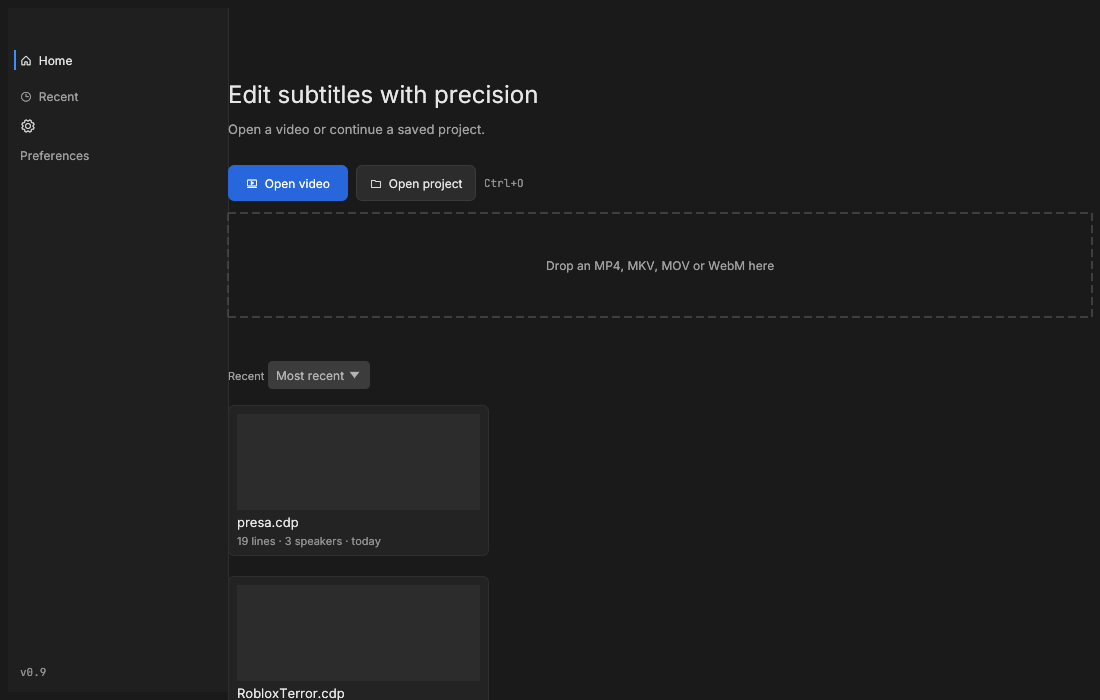
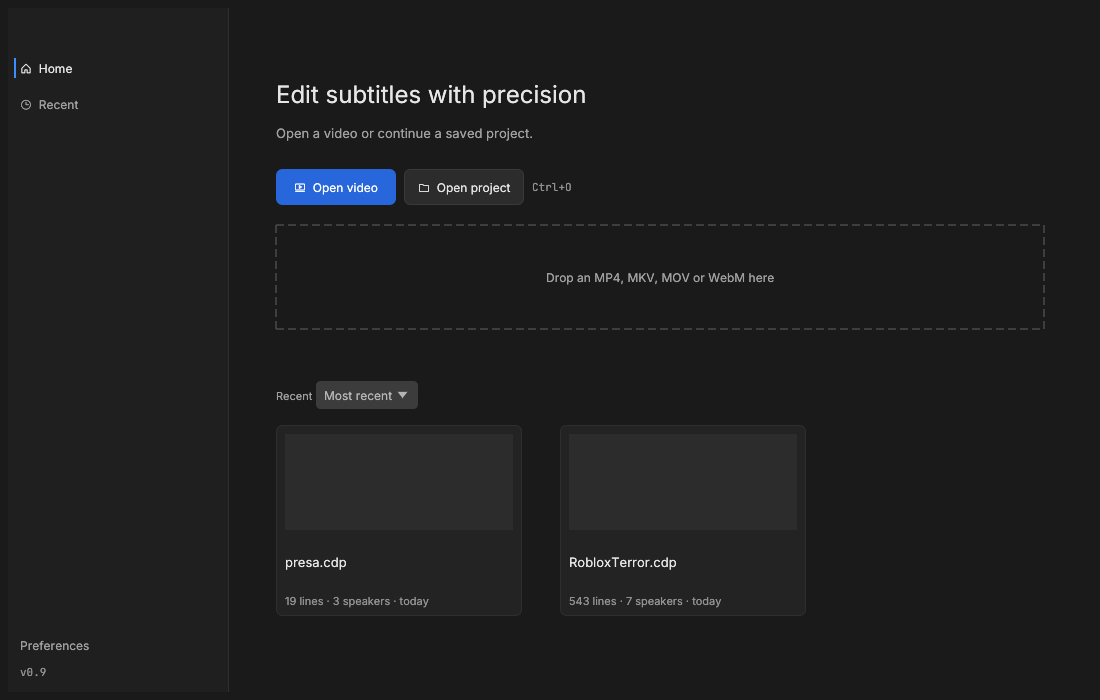
fix: espaciado, rejilla de recientes, Ajustes al pie y guardia al minimizar
La captura del usuario mostraba las tarjetas apiladas y el contenido pegado al riel; se usa horizontal_wrapped, margen lateral de 48 px mas aire entre bloques. Ajustes baja junto a la version. Al minimizar se libera la pipeline wgpu y no se pintan frames.

diff --git a/crates/app/src/ui/inicio.rs b/crates/app/src/ui/inicio.rs
@@ -23,8 +23,11 @@ pub fn mostrar(
 
     let ancho_riel = 220.0;
     let riel = egui::Rect::from_min_size(rect.min, Vec2::new(ancho_riel, rect.height()));
-    let contenido =
-        egui::Rect::from_min_max(egui::pos2(rect.min.x + ancho_riel, rect.min.y), rect.max);
+    // Margen lateral real: sin él el título y las tarjetas se pegan al riel.
+    let contenido = egui::Rect::from_min_max(
+        egui::pos2(rect.min.x + ancho_riel + tema::ESP_48, rect.min.y),
+        egui::pos2(rect.max.x - tema::ESP_48, rect.max.y),
+    );
 
     let abrir_ajustes = riel_de_navegacion(ui, riel, textos);
 
@@ -38,7 +41,7 @@ pub fn mostrar(
                 .font(tema::fuente_segura(Estilo::Titulo))
                 .color(tema::TEXTO),
         );
-        ui.add_space(tema::ESP_8);
+        ui.add_space(tema::ESP_12);
         ui.label(
             RichText::new(textos.inicio_subtitulo)
                 .font(tema::fuente_segura(Estilo::Cuerpo))
@@ -61,7 +64,7 @@ pub fn mostrar(
             );
         });
 
-        ui.add_space(tema::ESP_8);
+        ui.add_space(tema::ESP_16);
         zona_de_arrastre(ui, textos);
 
         if let Some(aviso) = &estado.aviso {
@@ -94,7 +97,7 @@ pub fn mostrar(
             );
         }
 
-        ui.add_space(tema::ESP_40);
+        ui.add_space(tema::ESP_48);
         ui.horizontal(|ui| {
             ui.label(
                 RichText::new(textos.recientes)
@@ -133,30 +136,29 @@ pub fn mostrar(
                 OrdenRecientes::Lineas => recientes.sort_by_key(|r| std::cmp::Reverse(r.lineas)),
             }
             let visibles = cantidad_visible(recientes.len(), estado.expandido);
-            let ancho_celda = 260.0;
-            let espacio = tema::ESP_20;
-            let columnas = ((contenido.width() + espacio) / (ancho_celda + espacio))
-                .floor()
-                .max(1.0) as usize;
-            let ancho_tarjeta =
-                (contenido.width() - espacio * (columnas - 1) as f32) / columnas as f32;
-            egui::Grid::new("tarjetas-recientes")
-                .num_columns(columnas)
-                .spacing(Vec2::splat(espacio))
-                .show(ui, |ui| {
-                    for (indice, reciente) in recientes.into_iter().take(visibles).enumerate() {
-                        ui.set_width(ancho_tarjeta);
-                        tarjeta_reciente(
-                            ui,
-                            reciente,
-                            textos,
-                            ancho_tarjeta,
-                            Some(indice) == destacado,
-                            &mut intencion,
-                        );
-                        ui.end_row();
-                    }
-                });
+            let ancho_tarjeta = 260.0;
+            // horizontal_wrapped decide las columnas con el ancho realmente
+            // disponible; el Grid anterior se apilaba en la app real.
+            ui.horizontal_wrapped(|ui| {
+                ui.spacing_mut().item_spacing = Vec2::splat(tema::ESP_24);
+                for (indice, reciente) in recientes.into_iter().take(visibles).enumerate() {
+                    ui.allocate_ui_with_layout(
+                        Vec2::new(ancho_tarjeta, 210.0),
+                        egui::Layout::top_down(egui::Align::LEFT),
+                        |ui| {
+                            ui.set_width(ancho_tarjeta);
+                            tarjeta_reciente(
+                                ui,
+                                reciente,
+                                textos,
+                                ancho_tarjeta,
+                                Some(indice) == destacado,
+                                &mut intencion,
+                            );
+                        },
+                    );
+                }
+            });
             if estado.recientes.len() > 3 && ui.button(textos.ver_todos).clicked() {
                 intencion = Some(MensajeInicio::VerTodos);
             }
@@ -182,7 +184,7 @@ fn riel_de_navegacion(ui: &mut egui::Ui, riel: egui::Rect, textos: &Textos) -> b
         egui::UiBuilder::new().max_rect(riel.shrink(tema::ESP_12)),
         |ui| {
             ui.vertical(|ui| {
-                ui.add_space(tema::ESP_24);
+                ui.add_space(tema::ESP_32);
                 for (etiqueta, icono, activo) in [
                     (textos.inicio, Icono::Inicio2, true),
                     (textos.recientes, Icono::Reloj, false),
@@ -204,27 +206,28 @@ fn riel_de_navegacion(ui: &mut egui::Ui, riel: egui::Rect, textos: &Textos) -> b
                         ui.painter().rect_filled(barra, 0.0, tema::ACENTO);
                     }
                 }
-                kit::icono(ui, Icono::Ajustes);
-                if ui
-                    .add(
-                        egui::Button::new(
-                            RichText::new(textos.ajustes)
-                                .font(tema::fuente(Estilo::Base))
-                                .color(tema::TEXTO_2),
-                        )
-                        .frame(false)
-                        .min_size(Vec2::new(ui.available_width(), tema::ALTO_NAV)),
-                    )
-                    .clicked()
-                {
-                    abrir_ajustes = true;
-                }
                 ui.with_layout(egui::Layout::bottom_up(egui::Align::LEFT), |ui| {
+                    // En bottom_up el primer widget va abajo del todo: la
+                    // versión queda al pie y Ajustes justo encima.
                     ui.label(
                         RichText::new("v0.9")
                             .font(tema::fuente(Estilo::Mono))
                             .color(tema::TEXTO_3),
                     );
+                    if ui
+                        .add(
+                            egui::Button::new(
+                                RichText::new(textos.ajustes)
+                                    .font(tema::fuente(Estilo::Base))
+                                    .color(tema::TEXTO_2),
+                            )
+                            .frame(false)
+                            .min_size(Vec2::new(ui.available_width(), tema::ALTO_NAV)),
+                        )
+                        .clicked()
+                    {
+                        abrir_ajustes = true;
+                    }
                 });
             });
         },

diff --git a/crates/app/src/main.rs b/crates/app/src/main.rs
@@ -233,6 +233,23 @@ impl RustyDialogue {
 
 impl eframe::App for RustyDialogue {
     fn update(&mut self, ctx: &egui::Context, _frame: &mut eframe::Frame) {
+        // Al minimizar, wgpu recibe una superficie de 0x0 y el renderizador
+        // puede fallar. No pintamos ni pedimos frames mientras no haya área.
+        let minimizado = ctx.input(|entrada| {
+            entrada
+                .viewport()
+                .inner_rect
+                .is_some_and(|rect| rect.width() <= 1.0 || rect.height() <= 1.0)
+        });
+        if minimizado {
+            // La superficie wgpu desaparece al minimizar: soltar la pipeline
+            // cacheada evita usar un formato/dispositivo inválidos al volver.
+            if let Ok(mut gpu) = self.gpu.lock() {
+                gpu.take();
+            }
+            return;
+        }
+
         // Respuestas de los diálogos que se abrieron en otro hilo.
         let pendientes: Vec<_> = self.rx_dialogos.try_iter().collect();
         for respuesta in pendientes {

diff --git a/crates/app/examples/capturas.rs b/crates/app/examples/capturas.rs
@@ -176,6 +176,23 @@ fn main() {
         rod_app::textos::Idioma::En,
     );
 
+    if fase == "diagnostico" {
+        capturar(
+            "diagnostico-inicio-1914",
+            1914.0,
+            1015.0,
+            inicio::nuevo(
+                vec![
+                    reciente("presa.cdp", 19, 3),
+                    reciente("RobloxTerror.cdp", 543, 7),
+                    reciente("proyecto.cdp", 543, 7),
+                ],
+                None,
+            ),
+            rod_app::textos::Idioma::En,
+        );
+    }
+
     if fase == "finales" {
         for ancho in [1100.0, 1440.0, 2560.0] {
             let alto = if ancho == 1100.0 { 700.0 } else { 900.0 };

diff --git a/crates/app/src/ui/tema.rs b/crates/app/src/ui/tema.rs
@@ -50,6 +50,7 @@ pub const ESP_20: f32 = 20.0;
 pub const ESP_24: f32 = 24.0;
 pub const ESP_32: f32 = 32.0;
 pub const ESP_40: f32 = 40.0;
+pub const ESP_48: f32 = 48.0;
 pub const ESP_72: f32 = 72.0;
 
 pub const ALTO_CHIP: f32 = 24.0;

diff --git a/BITACORA.md b/BITACORA.md
@@ -13,6 +13,11 @@
 - kittest no ejecuta el `PaintCallback` de mpv: las capturas finales del editor
   son headless con el monitor vacío. El «antes» real con video quedó en
   `docs/checklists/rediseno/antes-editor-1440.png`.
+- Ajustes de layout tras captura del usuario: margen lateral de 48 px en el
+  contenido, rejilla con `horizontal_wrapped` (el `Grid` apilaba las tarjetas
+  en la app real), más aire entre bloques y Ajustes al pie sobre la versión.
+- Minimizar: se suelta la pipeline wgpu cacheada y no se pinta ni se piden
+  frames mientras la superficie tiene tamaño 0.
 - Revisión final de rama: se corrigieron foco del editor inline, atajos que se
   ejecutaban con modales abiertos, color de identidad en los clips, pista por
   hablante, seek al seleccionar, zoom con `Ctrl+rueda`, waveform al cambiar de
